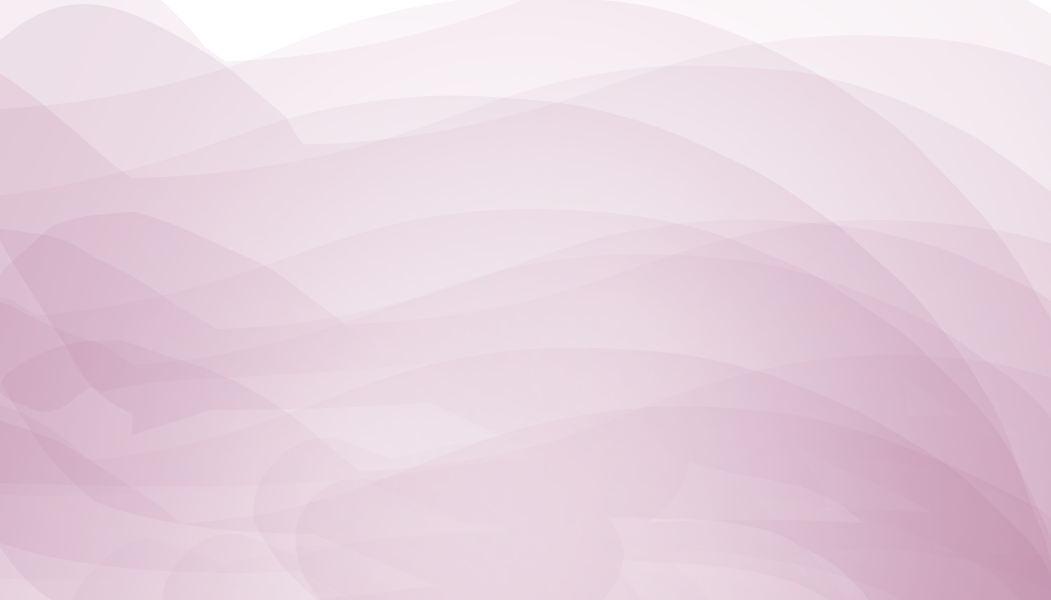
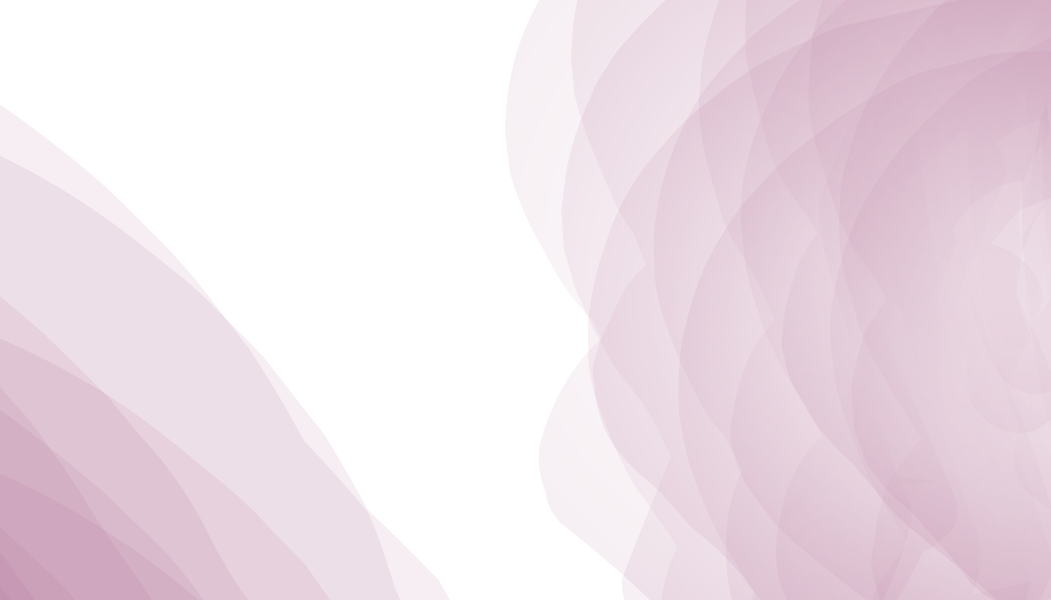
changed the background gradients, color tweaks, added different images. need to create image links and individual pages for each project

diff --git a/index.html b/index.html
@@ -34,7 +34,7 @@
             </ul>
         </nav>
         <h1>Hi, I'm Yessi</h1>
-        <h2>designer & developer</h2>
+        <h2>designer & photographer</h2>
         <p>(among other things)</p>
     </section>
 
@@ -50,47 +50,47 @@
 
         <div class="skill-tile">
             <div class="skill-shot"><img src="images/vdbizcard.png"></div>
-            <div class="skill-desc"><h3>May not need Title</h3><p> Filler text. Testing testing one two three, lorem. </p></div>
+        
         </div>
 
         <div class="skill-tile">
-            <div class="skill-shot"><img src="images/vdbizcard.png"></div>
-            <div class="skill-desc"><h3>May not need Title</h3><p> Filler text. Testing testing one two three, lorem. </p></div>
+            <div class="skill-shot"><img src="images/landingpg_ss.png"></div>
+            
         </div>
 
         <div class="skill-tile">
-            <div class="skill-shot"><img src="images/vdbizcard.png"></div>
-            <div class="skill-desc"><h3>May not need Title</h3><p> Filler text. Testing testing one two three, lorem. </p></div>
+            <div class="skill-shot"><img src="images/yr_posterwork.png"></div>
+            
         </div>
 
         <div class="skill-tile">
-            <div class="skill-shot"><img src="images/vdbizcard.png"></div>
-            <div class="skill-desc"><h3>May not need Title</h3><p> Filler text. Testing testing one two three, lorem. </p></div>
+            <div class="skill-shot"><img src="images/starships-mockup.png"></div>
+            
         </div>
 
         <div class="skill-tile">
-            <div class="skill-shot"><img src="images/vdbizcard.png"></div>
-            <div class="skill-desc"><h3>May not need Title</h3><p> Filler text. Testing testing one two three, lorem. </p></div>
+            <div class="skill-shot"><img src="images/photog_ss.png"></div>
+           
         </div>
         
         <div class="skill-tile">
-            <div class="skill-shot"><img src="images/vdbizcard.png"></div>
-            <div class="skill-desc"><h3>May not need Title</h3><p> Filler text. Testing testing one two three, lorem. </p></div>
+            <div class="skill-shot"><img src="images/illustration_ss.png"></div>
+        
         </div>
 
         <div class="skill-tile">
             <div class="skill-shot"><img src="images/vdbizcard.png"></div>
-            <div class="skill-desc"><h3>May not need Title</h3><p> Filler text. Testing testing one two three, lorem. </p></div>
+            
         </div>
 
         <div class="skill-tile">
-            <div class="skill-shot"><img src="images/vdbizcard.png"></div>
-            <div class="skill-desc"><h3>May not need Title</h3><p> Filler text. Testing testing one two three, lorem. </p></div>
+            <div class="skill-shot"><img src="images/surveyform_ss.png"></div>
+            
         </div>
         
         <div class="skill-tile">
-            <div class="skill-shot"><img src="images/vdbizcard.png"></div>
-            <div class="skill-desc"><h3>May not need Title</h3><p> Filler text. Testing testing one two three, lorem. </p></div>
+            <div class="skill-shot"><img src="images/gallerybrochure.png"></div>
+            <div class="skill-desc"><h3>Constructing...</h3><p> Filler text. </p></div>
         </div>
 
 

diff --git a/index.css b/index.css
@@ -24,7 +24,7 @@ html {
 body {
     display:flex;
     flex-direction: column;
-    background-color: #fff;
+    background-color: #fafafa;
     font-family: 'Work Sans', sans-serif;
     font-size: 10px; /* 1rem*/
     line-height: 1.2;
@@ -91,7 +91,7 @@ button:hover {
 
 /* NAV */
 nav {
-    background-color: #ab8093;
+    background-color: #fafafa;
     position: fixed;
     top: 0;
     width: 100%;
@@ -131,19 +131,19 @@ nav {
 .nav-list a {
     font-size: 2rem;
     margin-right: 2rem;
-    color: #e6e6e6;
+    color: #ab8093;
     padding: 0.25em;
     
 }
 
 .nav-list a:hover {
-    color: #996666;
+    color: #ab8093;
     background-color:#e6e6e6;
     transition: all 0.2s;
  }
 
 .nav-list a:visited{
-    color: #f2f2f2;
+    color: #ab8093;
 }
 
 
@@ -161,14 +161,14 @@ nav {
     justify-content: center;
     height: 100vh;
     margin: 0;
-    background-color: #ab8093;
+    background-color: #fafafa;
     justify-self: center;
     top: 0;
     left: 0;
     min-width: 100vw;
     max-width: 100vw;
     align-items: center;
-    background-image: url('../images/yr-gradient.png');
+    background-image: url('../images/yr-gradient-a.png');
     background-repeat: no-repeat;
     background-size: cover;
     
@@ -286,6 +286,7 @@ nav {
 
 .skills-section {
     margin-bottom: 10rem;
+    
 }
 
 .skills-section > h1 {

diff --git a/page1.html b/page1.html
@@ -1,0 +1,18 @@
+<!DOCTYPE html>
+<html lang="en">
+<head>
+    <meta charset="UTF-8">
+    <meta http-equiv="X-UA-Compatible" content="IE=edge">
+    <meta name="viewport" content="width=device-width, initial-scale=1.0">
+    <title>Document</title>
+</head>
+<body>
+    
+</body>
+</html>
+<div class="skill-desc"><h3>Under construction</h3><p> Filler text. Testing testing one two three, lorem. </p></div>
+
+  
+
+
+<!-- page for a  single project -->
